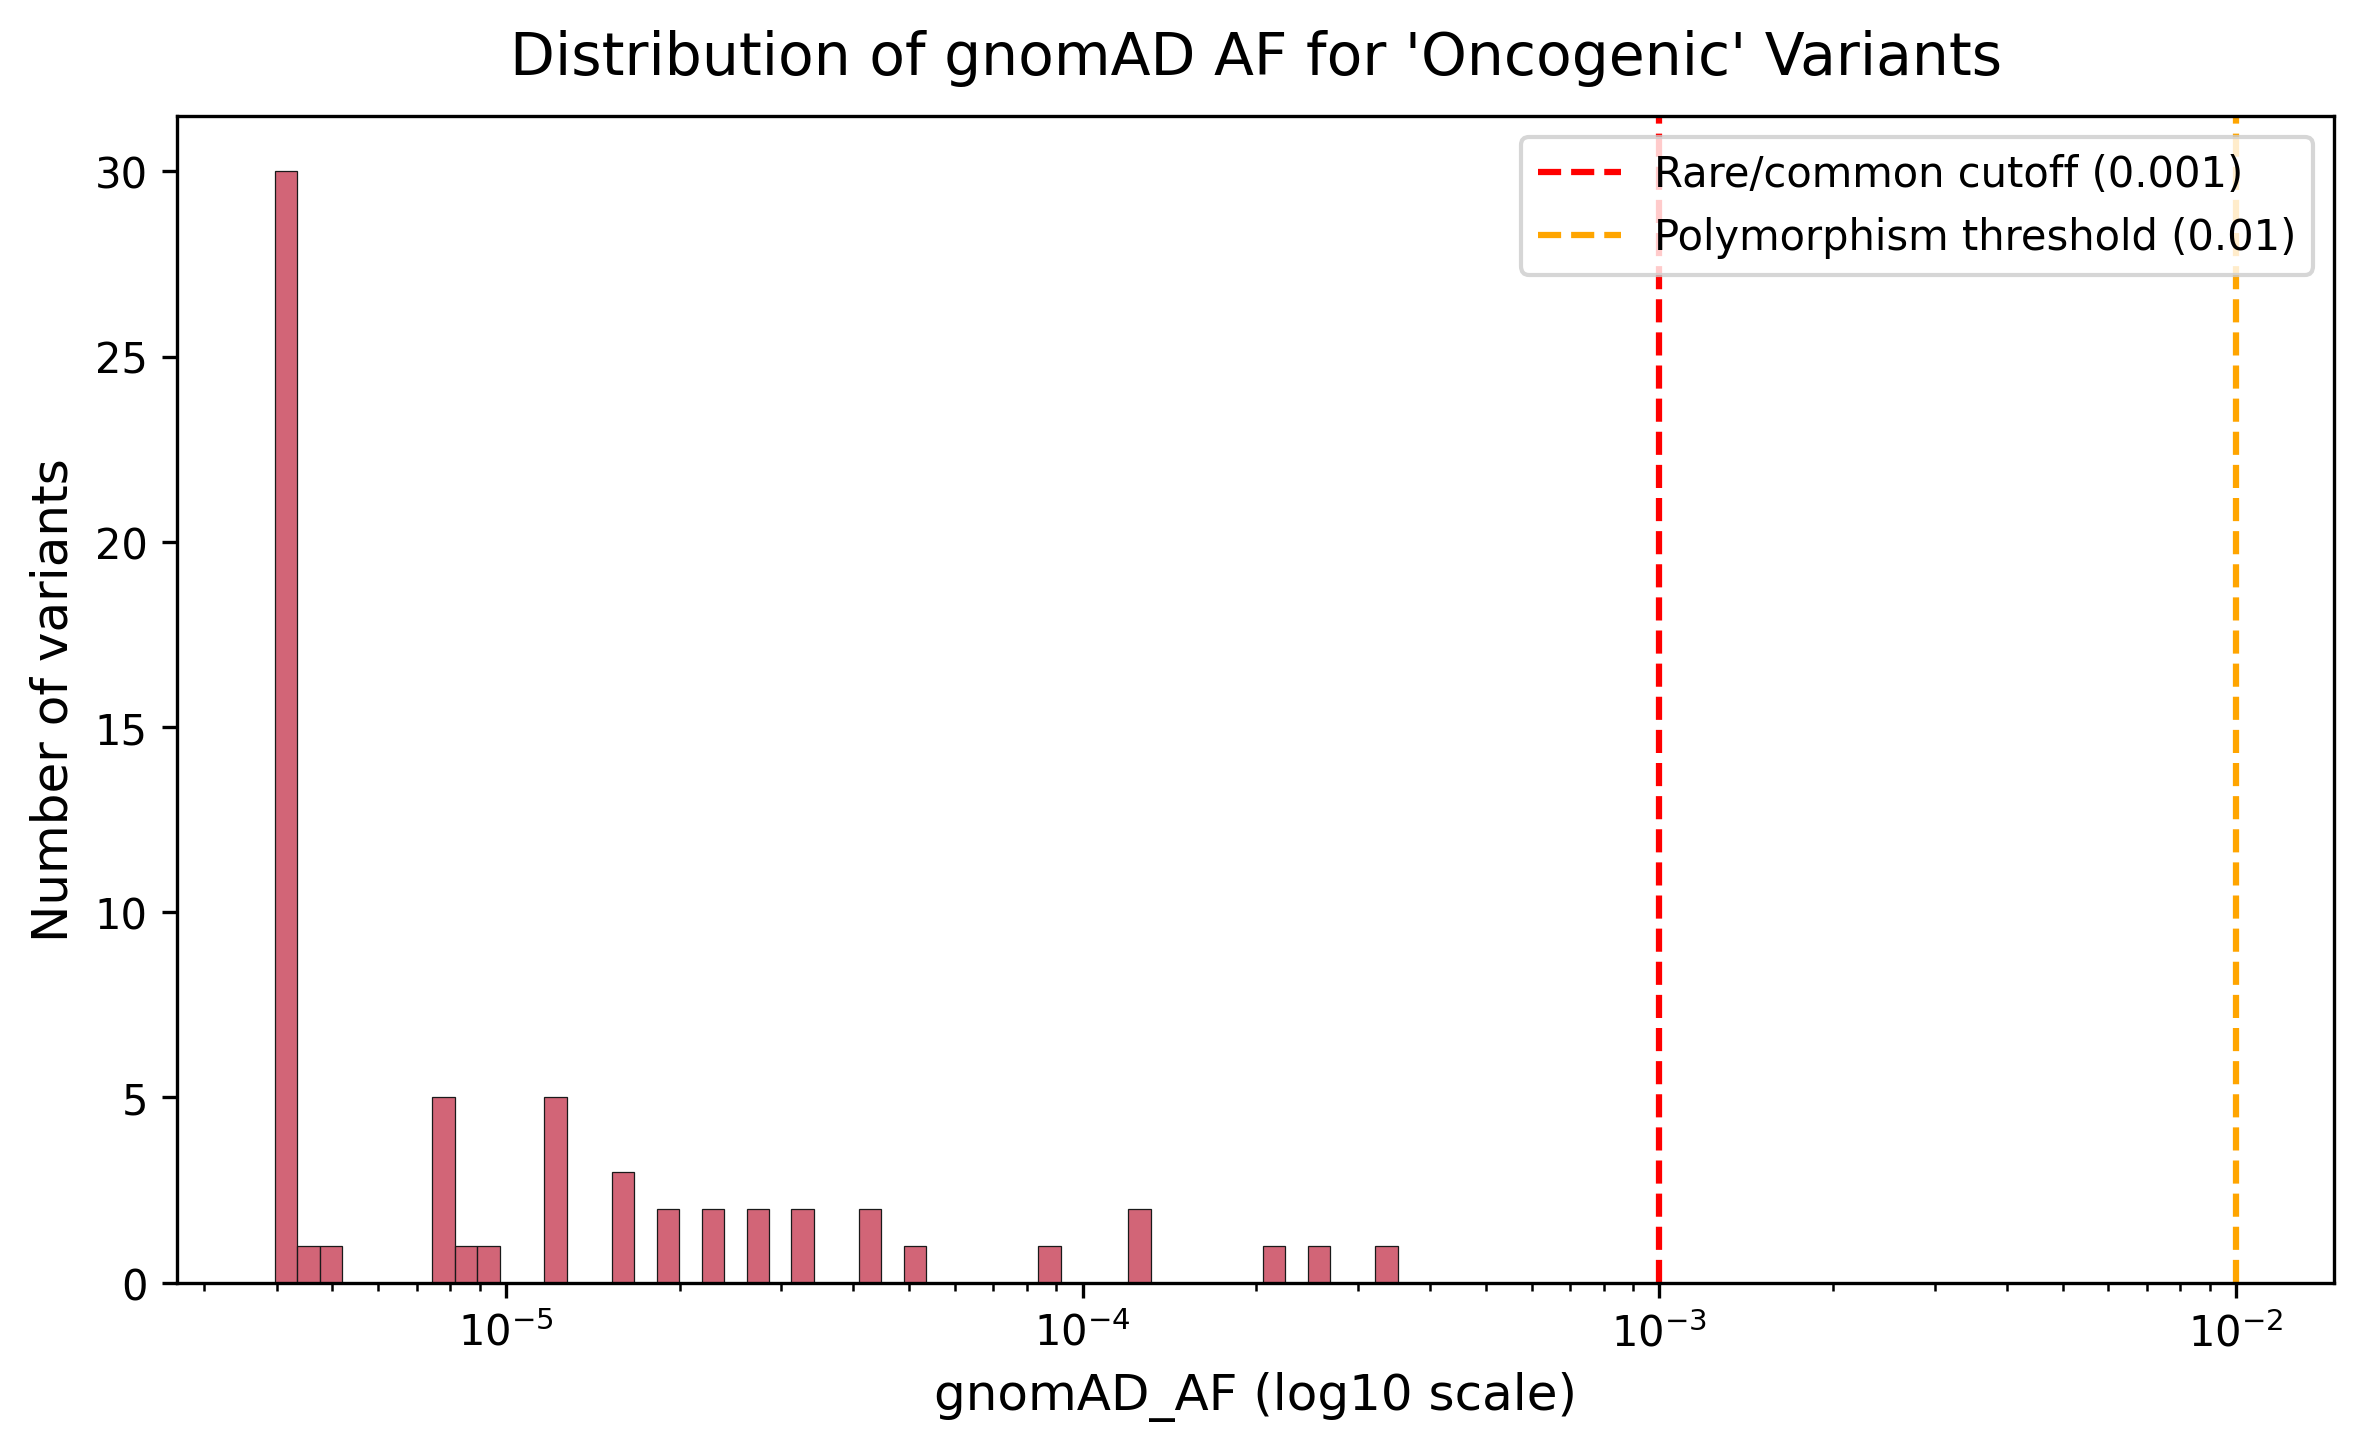
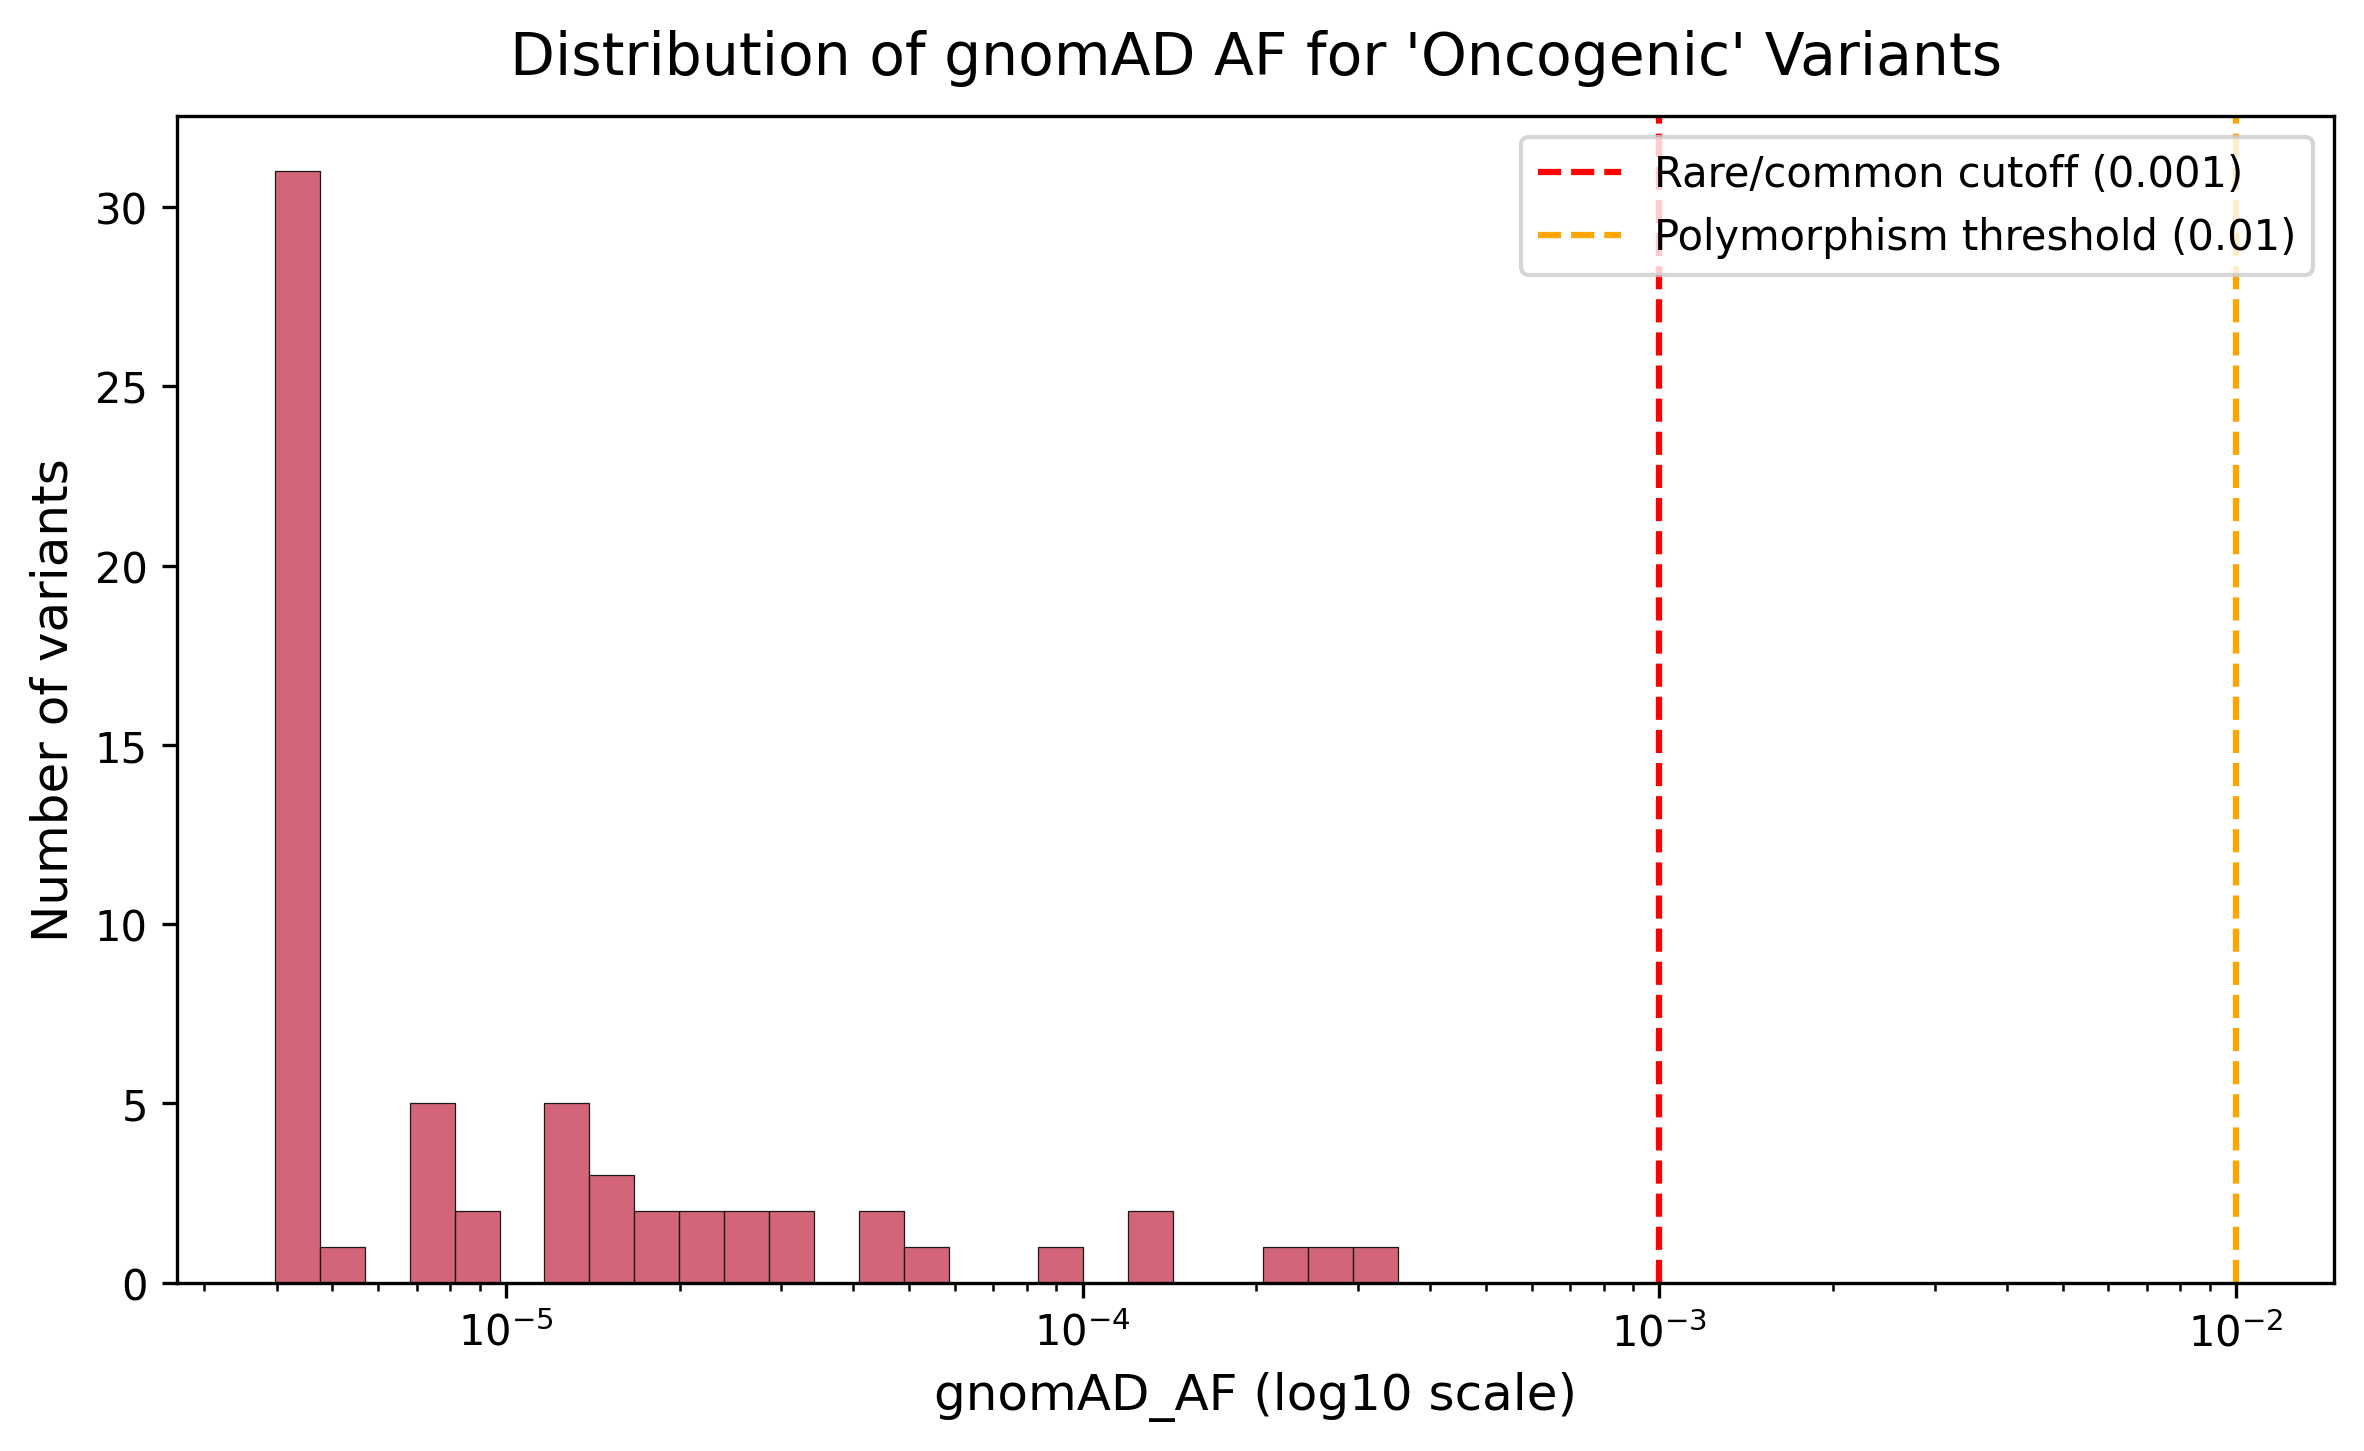
edit number of bins in gnomad histograms, rename mave file

diff --git a/scripts/EDA/maves.py b/scripts/EDA/maves.py
@@ -4,7 +4,7 @@
 # ====================================================================
 
 """
-Script: variants_with_maves.py
+Script: maves.py
 Author: Ane Kleiven
 
 This script performs a multi-step analysis to explore how somatic cancer
@@ -13,12 +13,12 @@ Multiplexed Assays of Variant Effect (MAVEs)
 
 Major outputs:
 --------------
-1. Number of variants with MAVEdb scores
-2. Number of MaveDB_scores for each oncogenicity class 
-3. Top genes with MaveDB_score
+1. Number of variants with MAVE scores
+2. Number of variants with MAVE scores for each oncogenicity class 
+3. Top genes with MAVE scores
 4. Filter out wanted MAVE experiments (by number of variants with MAVE score)
 5. Box plot of MaveDB score distributions within top MAVE experiments (single genes)
-6. Density plot of MaveDB score distributions within top MAVE experiments (single genes)
+6. KDE plot of MaveDB score distributions within top MAVE experiments (single genes)
 
 All plots are saved in:
    plots/maves
@@ -125,7 +125,7 @@ gene_summary = (
 )
 # Print summary 
 print("Number of MaveDB_scores per gene:")
-print(gene_summary, "\n") 
+print(gene_summary.head(10), "\n") 
 
 # Plot summary 
 print("Plotting top genes with MaveDB score (by variant count)..")
@@ -150,7 +150,7 @@ print("Plotting complete! Plot saved as 'plots/maves/top_genes_with_maves.png'")
 print("-"*30)
 
 # ------------------------------------------------------------
-# Find oncogenicity distribution within genes with MaveDB_score 
+# Find oncogenicity distribution per gene and MaveDB score set: 
 # ------------------------------------------------------------
 
 oncogenicity_classes = ["Likely Neutral", "Oncogenic"] 
@@ -160,24 +160,24 @@ mave_summary = (
   variants_with_mave_filtered.groupby(["Hugo_Symbol", "MaveDB_urn", "ONCOGENIC"])
   .size()) 
 
-print("Variant count for different MAVE experiments in Oncogenic and Likely Neutral variant class:")
+print("Oncogenic and likely neutral variant counts per gene and MaveDB score set:")
 print(mave_summary, "\n")
 
 # -------------------------------------------------------------
 # Explore MAVE genes 
 # -------------------------------------------------------------
 
-print("Filtering out experiments from the top MAVE genes..\n")
+print("Filtering out wanted MaveDB score sets..\n")
 
-# Wanted MAVE experiments 
+# Wanted MAVE score sets
 wanted_urns = ["urn:mavedb:00000068-a-1", "urn:mavedb:00000013-a-1", "urn:mavedb:00000115-a-7", "urn:mavedb:00000081-a-2"] 
 mave_filtered = variants_with_mave_filtered[variants_with_mave_filtered["MaveDB_urn"].isin(wanted_urns)]
 
 # -------------------------------------------------------------
-# Plot score distributions for wanted MAVE experiments
+# Plot score distributions for wanted MaveDB score sets
 # -------------------------------------------------------------
 
-print("Plotting score distributions for wanted MAVE experiments..")
+print("Plotting score distributions for wanted MaveDB score sets..")
 
 palette = {
     "Oncogenic": "#c4314a",
@@ -203,7 +203,7 @@ plt.tight_layout()
 plt.savefig("plots/maves/mave_score_by_oncogenicity.png", dpi=300, bbox_inches="tight")
 
 
-# --- DENSITY PLOT ---
+# --- KDE PLOT ---
 
 g = sns.FacetGrid(mave_filtered, col="Hugo_Symbol", sharey=False, sharex=False, 
                   hue="ONCOGENIC", hue_order=oncogenicity_classes, palette=palette)

diff --git a/scripts/EDA/germline_proximity.py b/scripts/EDA/germline_proximity.py
@@ -50,6 +50,7 @@ variants = pd.read_csv(
 )
 
 print(f"Loaded {len(variants):,} somatic variants.")
+print("-"*50) 
 
 # ------------------------------------------------------------
 # Find the number of variants with a germline distance 
@@ -58,7 +59,7 @@ print(f"Loaded {len(variants):,} somatic variants.")
 variants_with_dist = variants[variants["Germline_Proximity"].notna()]
 variants_with_dist["Germline_Proximity"] = pd.to_numeric(variants_with_dist["Germline_Proximity"], errors='coerce')
 
-count_with_distance = variants_with_dist["Germline_Proximity"].sum() 
+count_with_distance = len(variants_with_dist)
 print(f"Number of variants with germline distances: {count_with_distance:,}")
 
 percent_with_distance = (count_with_distance / len(variants)) * 100
@@ -68,7 +69,11 @@ print(f"Percent of variants with germline distances: {percent_with_distance:.2f}
 # Number of variants with germline distance within each class 
 # ------------------------------------------------------------
 
-has_dist_summary = variants_with_dist.groupby("ONCOGENIC")["Germline_Proximity"]
+has_dist_summary = (
+  variants_with_dist
+  .groupby("ONCOGENIC")["Germline_Proximity"]
+  .count()
+)
 
 print("Number of variants with a germline distance per class:")
 print(has_dist_summary, "\n")
@@ -84,11 +89,13 @@ stats_summary = variants.groupby("ONCOGENIC")["Germline_Proximity"].agg(
     std="std"
 ).reset_index()
 
-print("Descriptive statistics germline distances:")
+print("-"*50)
+print("Descriptive statistics of germline distances:")
 print(stats_summary)
+print("-"*50)
 
 # ------------------------------------------------------------
-# Prepare filtered plot data
+# Filtered plot data
 # ------------------------------------------------------------
 
 wanted_classes = ["Oncogenic", "Likely Neutral"]

diff --git a/scripts/EDA/gnomAD_freq.py b/scripts/EDA/gnomAD_freq.py
@@ -131,7 +131,7 @@ def analyze_gnomad_af(df: pd.DataFrame, status: str, plotname: str, color: str =
         data=subset,
         x="gnomAD_AF",
         log_scale=True,
-        bins=50,
+        bins=25,
         color=color, 
         edgecolor="0.1",
         linewidth=0.3
